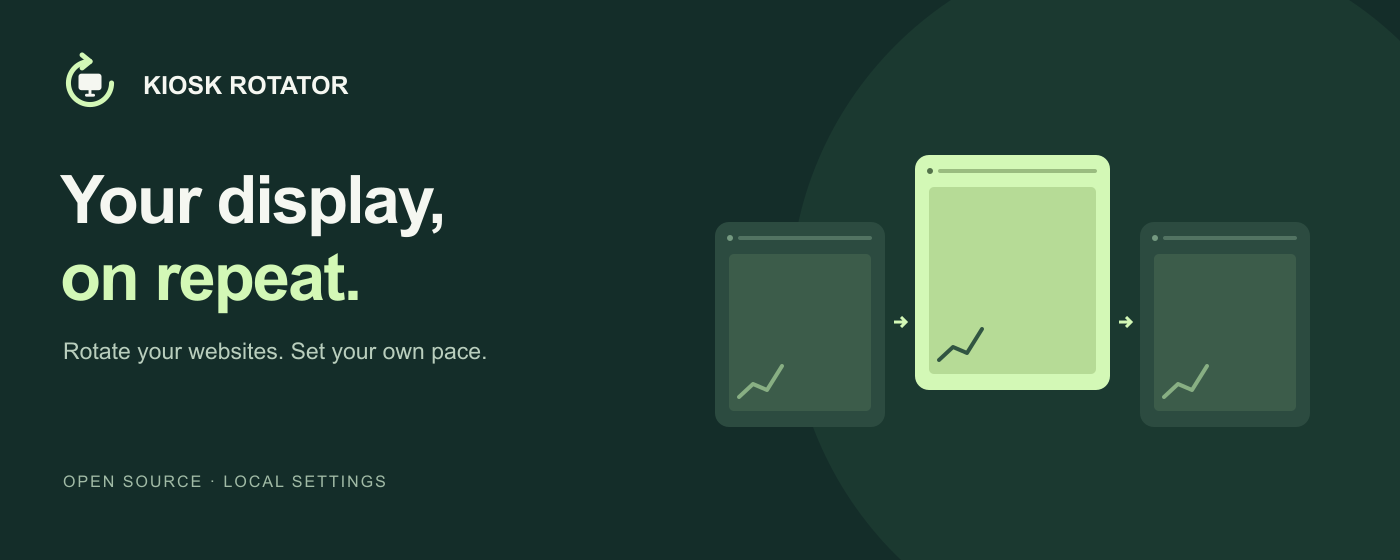
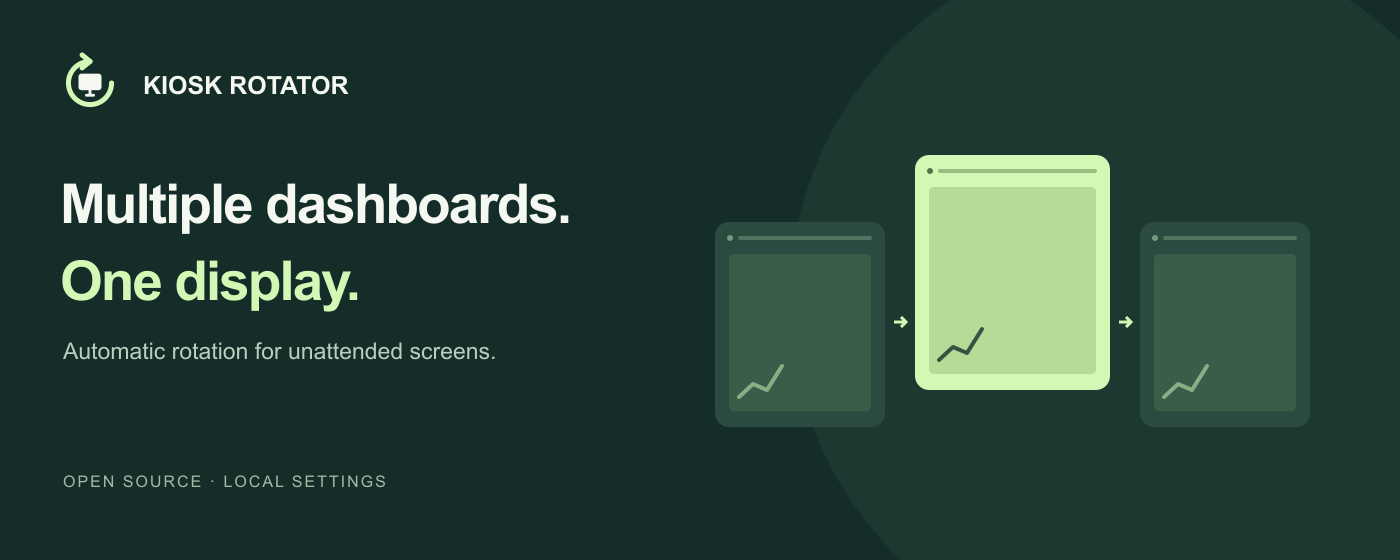
Focus store messaging on unattended dashboard rotation

Changed region(s): [[0.0307, 0.3036, 0.3993, 0.425], [0.0307, 0.4554, 0.2457, 0.5768], [0.0307, 0.6071, 0.3686, 0.6679]]

diff --git a/store/artwork/rotation-showcase.html b/store/artwork/rotation-showcase.html
@@ -1,0 +1,3 @@
+<!doctype html><html><head><meta charset="utf-8"><title>Kiosk Rotator — automatic dashboard rotation</title><style>
+*{box-sizing:border-box}body{margin:0;background:#142d29;color:#f5f7f1;font-family:-apple-system,BlinkMacSystemFont,'Segoe UI',sans-serif;width:1280px;height:800px;overflow:hidden}.brand{position:absolute;left:56px;top:42px;display:flex;align-items:center;gap:14px;font-size:17px;letter-spacing:2px;font-weight:700}.brand img{width:56px;height:56px}.copy{position:absolute;left:56px;top:199px;width:490px}h1{font-size:55px;letter-spacing:-2.3px;line-height:1.1;margin:0 0 26px;font-weight:650}h1 span{color:#d3f8b6}.copy p{font-size:21px;line-height:1.55;color:#bdcebf;margin:0;max-width:410px}.features{margin-top:30px;display:flex;gap:9px;flex-wrap:wrap;max-width:440px}.features span{font-size:13px;border:1px solid #547160;border-radius:7px;padding:9px 12px;color:#d3f8b6}.frame{position:absolute;left:580px;top:235px;width:644px;height:286px;background:#f5f7f1;border-radius:14px;overflow:hidden;box-shadow:0 24px 64px #061a2366}iframe{width:1080px;height:558px;transform:scale(.5963);transform-origin:top left;border:0}.caption{position:absolute;left:580px;top:548px;font-size:13px;color:#a9c1ae}.bottom{position:absolute;left:56px;bottom:42px;color:#9bb8a3;font-size:12px;letter-spacing:1.8px}.sequence{position:absolute;left:580px;top:156px;display:flex;gap:12px;align-items:center;color:#d3f8b6;font-size:13px}.sequence span{border:1px solid #426451;border-radius:8px;padding:13px 15px}.sequence span:first-child{background:#d3f8b6;color:#142d29;border-color:#d3f8b6}.sequence b{font-weight:400}.note{position:absolute;left:580px;top:591px;width:580px;font-size:15px;line-height:1.6;color:#bdcebf}
+</style></head><body><div class="brand"><img src="icons/icon-48.png" alt="">KIOSK ROTATOR</div><div class="copy"><h1>Multiple dashboards.<br><span>One unattended<br>display.</span></h1><p>Automatically cycle through dashboards, status pages, and information sites on a single screen.</p><div class="features"><span>Automatic rotation</span><span>Per-page refresh</span><span>Optional countdown</span></div></div><div class="sequence" aria-label="Pages repeat automatically"><span>Dashboard</span><b>→</b><span>Status page</span><b>→</b><span>Information site</span><b>↻</b></div><div class="frame"><iframe src="options.html" title="Example page lineup"></iframe></div><div class="caption">Your rotating lineup · Example settings</div><div class="note">Choose your pages. Set the interval. Start the display.<br>The pages rotate while the browser is open and the computer is awake.</div><div class="bottom">OPEN SOURCE · LOCAL SETTINGS · NO ACCOUNT REQUIRED</div><script>document.querySelector('iframe').addEventListener('load',event=>{const doc=event.target.contentDocument;event.target.contentWindow.scrollTo(0,doc.querySelector('.pages').getBoundingClientRect().top-22);});</script></body></html>

diff --git a/store/artwork/README.md b/store/artwork/README.md
@@ -6,10 +6,10 @@ The 128px icon has a 96px square artwork area with 16px transparent padding. Sma
 
 ## Screenshot method
 
-Captured in Chrome at 1280×800 from the actual 0.3.1 Settings/popup HTML, CSS, and JavaScript. A local-only API fixture (`preview-api.js`) supplies public example configuration; it does not run a real installed extension or request real website permissions. No visual changes were applied to the Settings UI. The toolbar screenshot places the real popup inside an explanatory composition (`toolbar-showcase.html`).
+Captured in Chrome at 1280×800 from the actual 0.3.1 Settings/popup HTML, CSS, and JavaScript. A local-only API fixture (`preview-api.js`) supplies public example configuration; it does not run a real installed extension or request real website permissions. No visual changes were applied to the Settings UI. The rotation screenshot places the real Settings lineup inside an explanatory composition (`rotation-showcase.html`).
 
 The website URLs are example.com and example.org. “Team dashboard” and “Service status” are sample labels, not claims about those websites. The fixture's running state demonstrates the popup appearance and is not evidence of rotation working. Store-installed behavior and timing must still be tested independently.
 
-To reproduce: copy `extension/` to a disposable preview directory, copy the fixture files into that directory, and insert `<script src="preview-api.js"></script>` before the core.js script in its options.html and popup.html. Serve that directory on localhost. Open settings-showcase.html for the settings view, settings-showcase.html?lineup for the lineup view, and toolbar-showcase.html for the popup composition. The settings wrapper preserves the viewport dimensions while its iframe scrolls the real options page. Use a 1280×800 browser viewport and capture PNGs. Keep fixture scripts and showcase HTML out of the actual extension directory and upload ZIP.
+To reproduce: copy `extension/` to a disposable preview directory, copy the fixture files into that directory, and insert `<script src="preview-api.js"></script>` before the core.js script in its options.html and popup.html. Serve that directory on localhost. Open settings-showcase.html for the settings view, settings-showcase.html?lineup for the lineup view, and rotation-showcase.html for the rotation composition. The settings wrapper preserves the viewport dimensions while its iframe scrolls the real options page. Use a 1280×800 browser viewport and capture PNGs. Keep fixture scripts and showcase HTML out of the actual extension directory and upload ZIP.
 
 The first Settings image shows timing/overlay controls. The second is scrolled down to show the lineup and save/start controls. Images are RGB PNGs, square-cornered and full bleed. The optional 1400×560 marquee and required 440×280 small promo are separate from the three UI screenshots.

diff --git a/store/listing.md b/store/listing.md
@@ -4,20 +4,22 @@
 Kiosk Rotator
 
 ## Short description
-Rotate loaded website tabs on dashboard and kiosk displays, with a countdown and keyboard controls.
+Automatically rotate dashboards, status pages, and websites on one unattended display.
 
 ## Detailed description
-Turn a browser window into a rotating display of your dashboards, status pages, and other websites.
+Multiple dashboards. One unattended display.
 
-Kiosk Rotator keeps each page in its own tab and switches between them at an interval you choose. Set up your lineup in Settings, start the display, and enter fullscreen when you're ready.
+Automatically cycle through dashboards, status pages, and information sites on a shared screen, without someone switching tabs.
 
-YOUR PAGES, YOUR PACE
+Choose the pages, set the rotation interval, and start the display. Kiosk Rotator keeps each page loaded in its own tab and rotates through the lineup automatically while the browser stays open and the computer stays awake.
+
+BUILD YOUR ROTATING LINEUP
 • Add, name, remove, and reorder pages without editing files.
 • Choose the rotation interval, from one second to 24 hours.
 • Set optional refresh intervals for individual pages. Refresh checks happen during page transitions and reload only inactive pages.
 • Show the countdown overlay, or hide it for a clean display.
 
-CONTROLS WITHIN REACH
+WHEN YOU NEED TO MAKE AN ADJUSTMENT
 • Start, pause, resume, and stop from the toolbar popup.
 • Use Left/Right to switch pages and Space to pause or resume when a display page has focus. Shortcuts leave text entry and form controls alone.
 • Switching to an unrelated tab in the display window pauses rotation.

diff --git a/store/submission-checklist.md b/store/submission-checklist.md
@@ -6,7 +6,7 @@
 - Store icon: `store-icon-128.png`.
 - Required small promo image: `promo-small-440x280.png`.
 - Optional marquee: `promo-marquee-1400x560.png`.
-- Screenshots: the three `screenshot-*.png` files, all 1280×800. Suggested order: toolbar, settings, pages.
+- Screenshots: the three `screenshot-*.png` files, all 1280×800. Suggested order: rotation overview, settings, pages.
 - `icon-preview-512.png` is a review preview, not the requested 128px store icon.
 
 ## Prepared
@@ -23,7 +23,7 @@
 - [ ] Reload 0.3.1 after the overnight test; confirm the new name/icon and retained settings.
 - [ ] Verify Pause/Resume/Stop and settings save/reopen in installed Chrome.
 - [ ] Verify denied/revoked access, managed page reload, browser restart, and refresh behavior.
-- [ ] Review listing screenshots against the installed build. These show the actual shipped HTML/CSS/JS with public example configuration through a local API fixture; they are not evidence of store installation or approval. The toolbar image adds explanatory framing around the real popup UI.
+- [ ] Review listing screenshots against the installed build. These show the actual shipped HTML/CSS/JS with public example configuration through a local API fixture; they are not evidence of store installation or approval. The rotation image adds explanatory framing around the real Settings lineup.
 - [ ] Check the live privacy/support links and complete the dashboard fields with the included text.
 - [ ] Review and make the dashboard's data-use certifications.
 - [ ] Select Unlisted for the initial release. All visibility modes still require review.

diff --git a/CHANGELOG.md b/CHANGELOG.md
@@ -5,6 +5,7 @@
 - Rename the displayed extension to Kiosk Rotator; retain the repository and folder names.
 - Add an original display-and-loop icon, toolbar icons, and matching Settings/popup branding.
 - Prepare store images, listing text, privacy disclosures, and reviewer instructions.
+- Center store messaging on automatically rotating dashboards and information sites on an unattended display.
 - Clarify local data handling and the distinction between unpacked and store acceptance.
 - Rotation, permission requests, and saved configuration behavior are unchanged.
 

diff --git a/README.md b/README.md
@@ -1,6 +1,6 @@
 # Kiosk Rotator
 
-Turn a Chrome window into a rotating display of your dashboards, status pages, and other websites.
+Automatically rotate dashboards, status pages, and information sites on one unattended display.
 
 Kiosk Rotator keeps one tab open per site and switches between them, so pages can retain their existing browser sessions. An optional compact green-on-black overlay shows the current page and time to the next switch.
 
